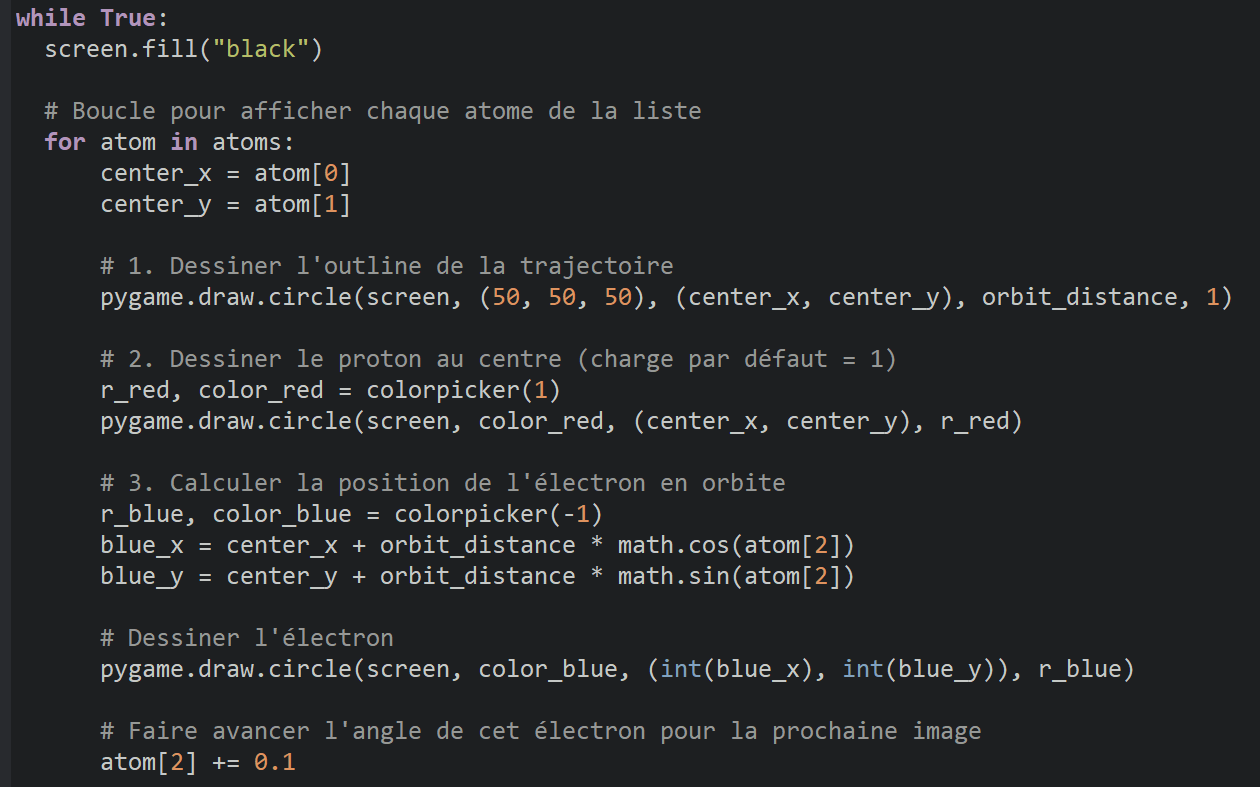
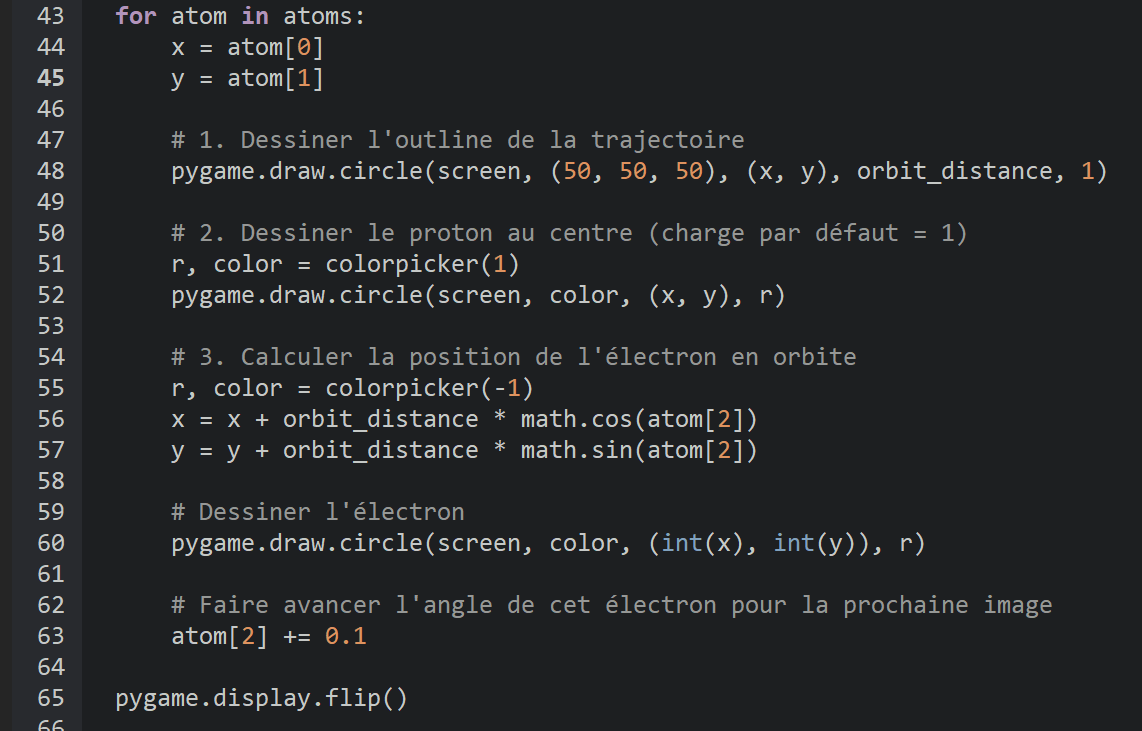
Changing variables
The variables were to specific

diff --git a/main.py b/main.py
@@ -41,23 +41,23 @@ while True:
 
   # Boucle pour afficher chaque atome de la liste
   for atom in atoms:
-      center_x = atom[0]
-      center_y = atom[1]
+      x = atom[0]
+      y = atom[1]
       
       # 1. Dessiner l'outline de la trajectoire
-      pygame.draw.circle(screen, (50, 50, 50), (center_x, center_y), orbit_distance, 1)
+      pygame.draw.circle(screen, (50, 50, 50), (x, y), orbit_distance, 1)
 
       # 2. Dessiner le proton au centre (charge par défaut = 1)
-      r_red, color_red = colorpicker(1)
-      pygame.draw.circle(screen, color_red, (center_x, center_y), r_red)
+      r, color = colorpicker(1)
+      pygame.draw.circle(screen, color, (x, y), r)
 
       # 3. Calculer la position de l'électron en orbite
-      r_blue, color_blue = colorpicker(-1)
-      blue_x = center_x + orbit_distance * math.cos(atom[2])
-      blue_y = center_y + orbit_distance * math.sin(atom[2])
+      r, color = colorpicker(-1)
+      x = x + orbit_distance * math.cos(atom[2])
+      y = y + orbit_distance * math.sin(atom[2])
 
       # Dessiner l'électron
-      pygame.draw.circle(screen, color_blue, (int(blue_x), int(blue_y)), r_blue)
+      pygame.draw.circle(screen, color, (int(x), int(y)), r)
 
       # Faire avancer l'angle de cet électron pour la prochaine image
       atom[2] += 0.1
